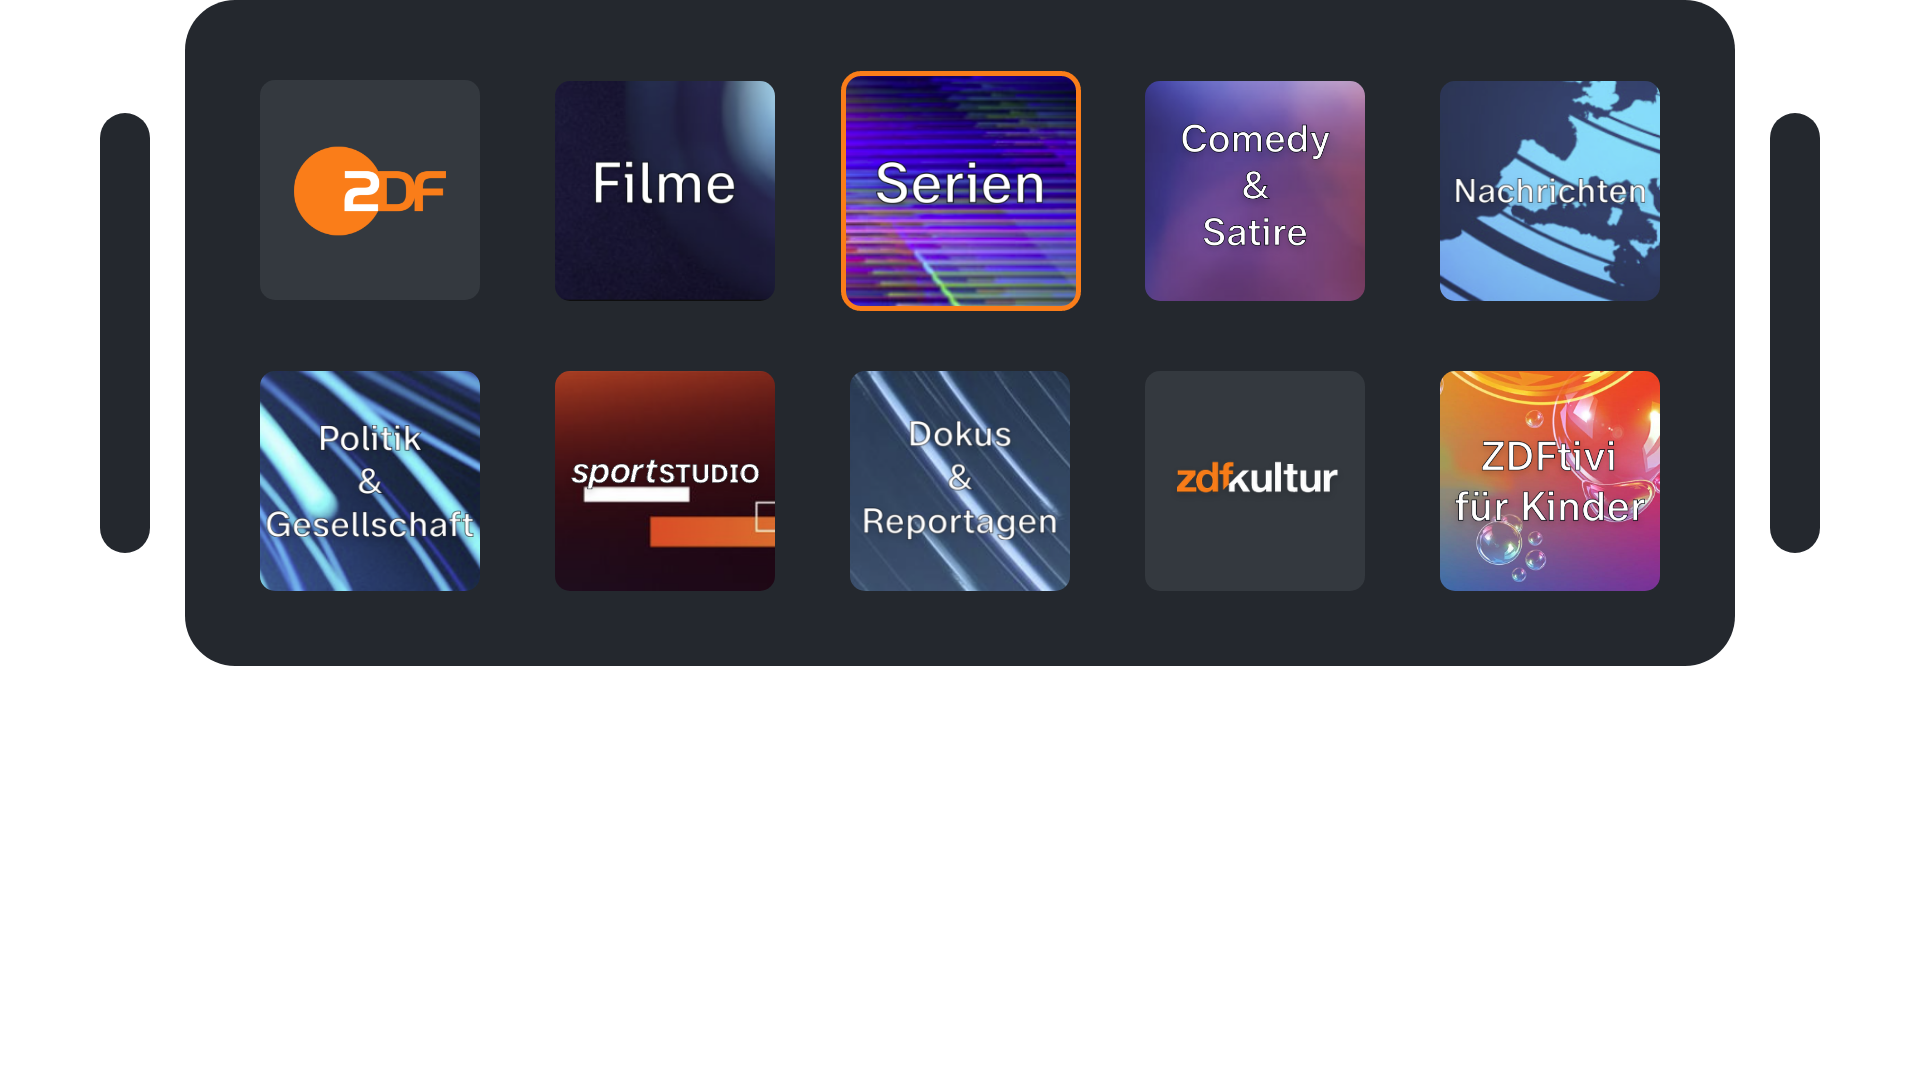
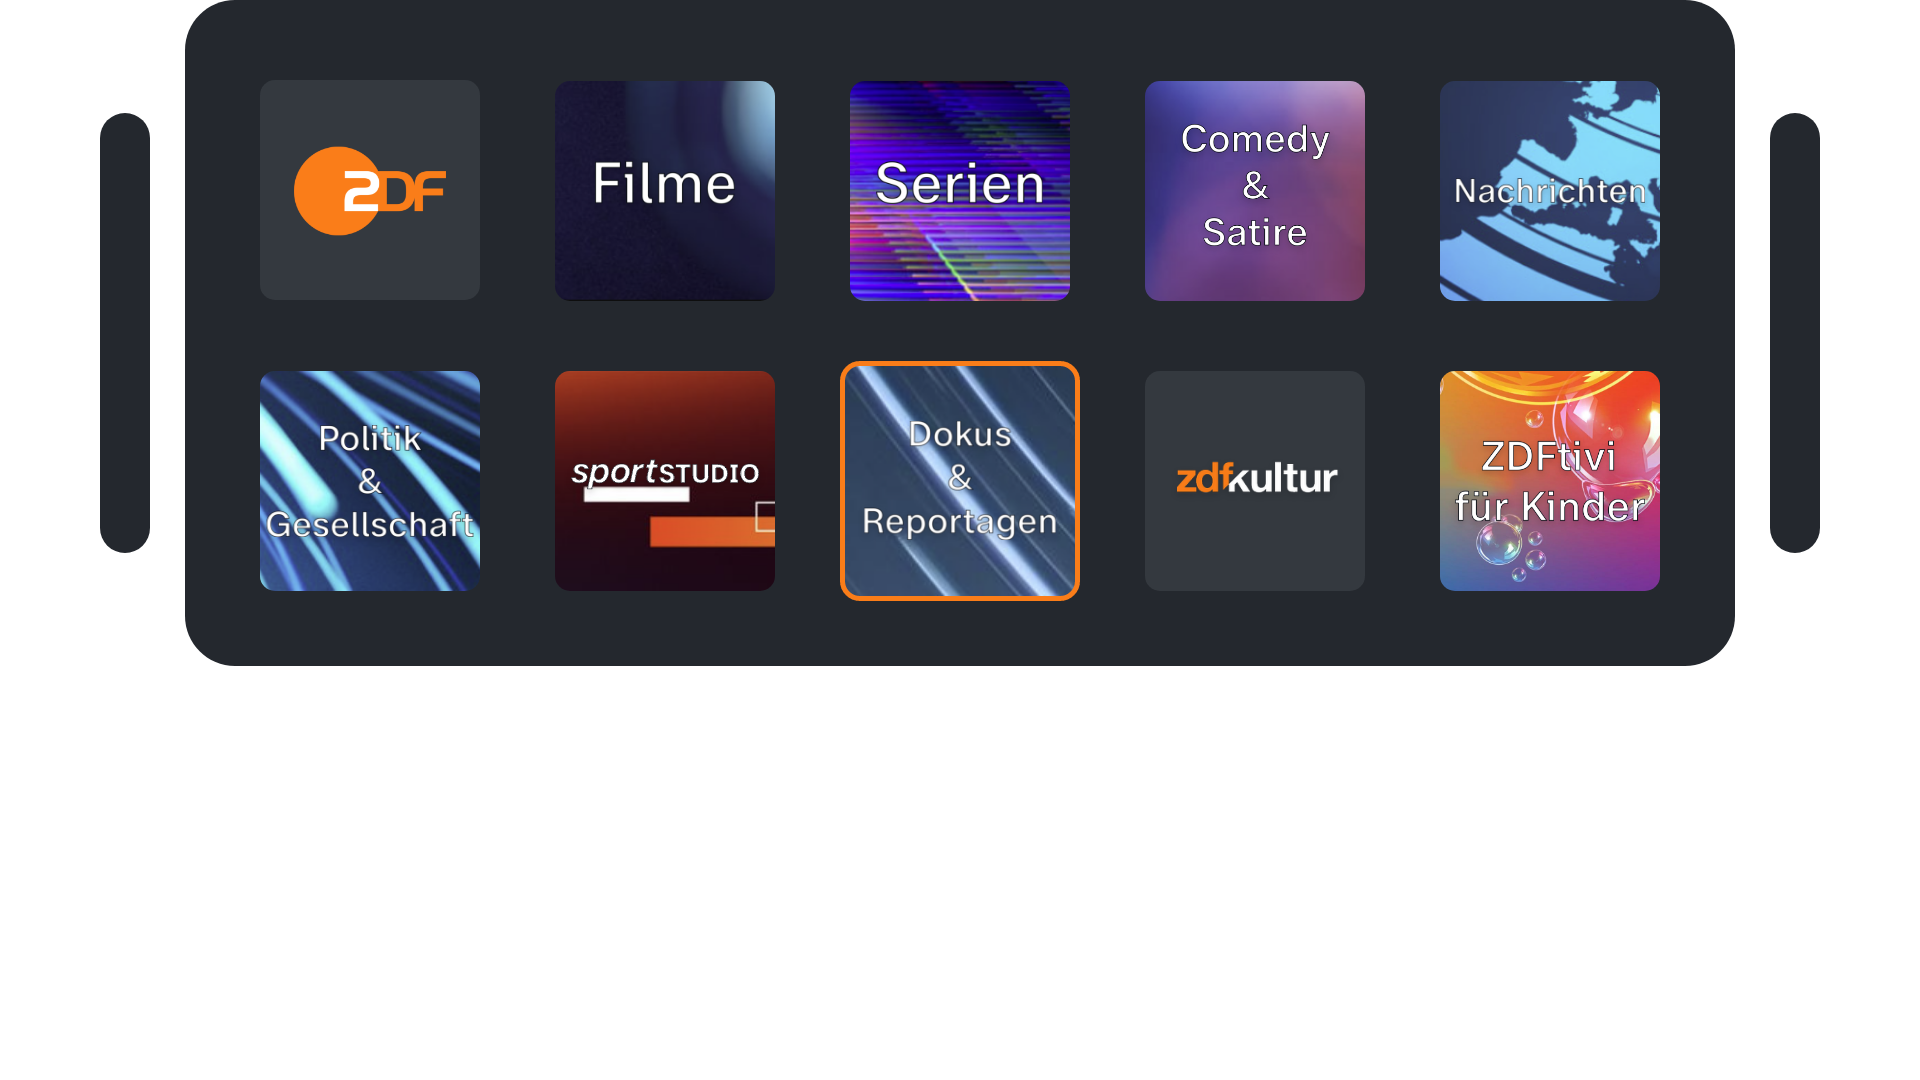
Refactor code structure and remove redundant sections for improved readability and maintainability

Changed region(s): [[0.4375, 0.0611, 0.5625, 0.3056], [0.4375, 0.3361, 0.5625, 0.5806]]

diff --git a/src/components/Results.jsx b/src/components/Results.jsx
@@ -4,30 +4,43 @@ import ReactCompareImage from 'react-compare-image';
 import { motion } from 'framer-motion';
 
 import background from '../assets/adobeXD/images/background/00.jpg';
+import backgroundMoon from '../assets/adobeXD/images/background/01.png';
 import startseiteLight from '../assets/adobeXD/images/light/001_Startseite_light.png';
 import startseiteDark from '../assets/adobeXD/images/dark/001_Startseite_dark.png';
 import rubrikenLight from '../assets/adobeXD/images/light/002_Rubriken_light.png';
 import rubrikenDark from '../assets/adobeXD/images/dark/002_Rubriken_dark.png';
-import serienLight from '../assets/adobeXD/images/light/006_Serien_light.png';
-import serienDark from '../assets/adobeXD/images/dark/006_Serien_dark.png';
-import serienDetailsLight from '../assets/adobeXD/images/light/014_Rookie_S1_light.png';
-import serienDetailsDark from '../assets/adobeXD/images/dark/014_Rookie_S1_dark.png';
-import playerAmbientLight from '../assets/adobeXD/images/light/020_S1_VB1_light.png';
-import playerAmbientDark from '../assets/adobeXD/images/dark/020_S1_VB1_dark.png';
-import playerLight from '../assets/adobeXD/images/light/022_S1_VB2_light.png';
-import playerDark from '../assets/adobeXD/images/dark/022_S1_VB2_dark.png';
+import dokuLight from '../assets/adobeXD/images/light/011_Dokus_light.png';
+import dokuDark from '../assets/adobeXD/images/dark/011_Dokus_dark.png';
+import dokuDetailsLight from '../assets/adobeXD/images/light/033_Mond_F2_1_light.png';
+import dokuDetailsDark from '../assets/adobeXD/images/dark/033_Mond_F2_1_dark.png';
+import playerLight from '../assets/adobeXD/images/light/037_F2_VB2_light.png';
+import playerDark from '../assets/adobeXD/images/dark/037_F2_VB2_dark.png';
+import playerAmbientLight from '../assets/adobeXD/images/light/036_F2_VB1_light.png';
+import playerAmbientDark from '../assets/adobeXD/images/dark/036_F2_VB1_dark.png';
 
 const Results = () => {
   return (
     <section className="w-full py-20 px-6 bg-[var(--background)] text-[var(--text)] font-quicksand selection:bg-[var(--accent)]">
-      <Element name="results">
-        <div className="max-w-4xl mx-auto">
-          <div>
-            <h1 className="text-4xl font-semibold mb-6 text-left">Ergebnisse</h1>
-            <p className="font-thin text-xl text-justify leading-[1.5]">
-              Lorem ipsum dolor sit amet, consetetur sadipscing elitr, sed diam nonumy eirmod tempor invidunt ut labore et dolore magna aliquyam erat, sed diam voluptua. At vero eos et accusam et justo duo dolores et ea rebum. Stet clita kasd gubergren, no sea takimata sanctus est Lorem ipsum dolor sit amet.            </p>
+      <Element name="results" >
+        <motion.h1 initial={{ opacity: 0, y: 50 }}
+          whileInView={{ opacity: 1, y: 0 }}
+          transition={{ duration: 0.6, ease: 'easeOut' }}
+          viewport={{ once: true }}
+          className="mt-8">
+          <div className="max-w-4xl mx-auto">
+            <div>
+              <h1 className="text-4xl font-semibold mb-6 text-left">Ergebnisse</h1>
+              <p className="font-thin text-xl text-justify leading-[1.5]">
+                Die kontinuierliche Diskussion und das Feedback führten zu einer finalen Lösung, die sowohl funktionalen als auch den ästhetischen
+                Anforderungen gerecht wird. Die verschiedenen Prototypen, die während des Prozesses entwickelt wurden, wurden detailliert getestet,
+                um die Benutzererfahrung zu optimieren und die Interaktivität in der Mixed Reality Mediathek zu gewährleisten.
+              </p>
+              <p className="font-thin text-xl text-justify leading-[1.5] mt-4">
+                Im Folgenden werden einige Beispiele der finalen Designentscheidungen gezeigt. Die gesamte Masterarbeit ist am Ende der Seite verlinkt.
+              </p>
+            </div>
           </div>
-        </div>
+        </motion.h1>
 
         {/* 1. Vergleichsbild */}
         <motion.h2
@@ -67,7 +80,7 @@ const Results = () => {
           whileInView={{ opacity: 1, x: 0 }}
           transition={{ duration: 1, ease: "easeOut" }}
           viewport={{ once: true }}
-          className="relative max-w-4xl w-full mx-auto text-2xl font-medium text-left mb-4 mt-16"
+          className="relative max-w-4xl w-full mx-auto text-2xl font-medium text-left mb-4 mt-32"
         >
           Rubriken
         </motion.h2>
@@ -101,9 +114,9 @@ const Results = () => {
           whileInView={{ opacity: 1, x: 0 }}
           transition={{ duration: 1, ease: "easeOut" }}
           viewport={{ once: true }}
-          className="relative max-w-4xl w-full mx-auto text-2xl font-medium text-left mb-4 mt-16"
+          className="relative max-w-4xl w-full mx-auto text-2xl font-medium text-left mb-4 mt-32"
         >
-          Übersichtsseite Serien
+          Übersichtsseite Dokus & Rerportagen
         </motion.h2>
         <motion.div
           initial={{ opacity: 0, x: -1000 }}
@@ -120,8 +133,8 @@ const Results = () => {
             />
             <div className="relative z-20">
               <ReactCompareImage
-                leftImage={serienLight}
-                rightImage={serienDark}
+                leftImage={dokuLight}
+                rightImage={dokuDark}
                 sliderLineColor="var(--accent)"
                 alt="Vergleich zwischen Light und Dark Mode"
               />
@@ -135,9 +148,9 @@ const Results = () => {
           whileInView={{ opacity: 1, x: 0 }}
           transition={{ duration: 1, ease: "easeOut" }}
           viewport={{ once: true }}
-          className="relative max-w-4xl w-full mx-auto text-2xl font-medium text-left mb-4 mt-16"
+          className="relative max-w-4xl w-full mx-auto text-2xl font-medium text-left mb-4 mt-32"
         >
-          Serienübersicht
+          Folgenübersicht 'Der Mond'
         </motion.h2>
         <motion.div
           initial={{ opacity: 0, x: 1000 }}
@@ -154,8 +167,8 @@ const Results = () => {
             />
             <div className="relative z-20">
               <ReactCompareImage
-                leftImage={serienDetailsLight}
-                rightImage={serienDetailsDark}
+                leftImage={dokuDetailsLight}
+                rightImage={dokuDetailsDark}
                 sliderLineColor="var(--accent)"
                 alt="Vergleich zwischen Light und Dark Mode"
               />
@@ -169,9 +182,9 @@ const Results = () => {
           whileInView={{ opacity: 1, x: 0 }}
           transition={{ duration: 1, ease: "easeOut" }}
           viewport={{ once: true }}
-          className="relative max-w-4xl w-full mx-auto text-2xl font-medium text-left mb-4 mt-16"
+          className="relative max-w-4xl w-full mx-auto text-2xl font-medium text-left mb-4 mt-32"
         >
-          Videoübersicht Ambiente
+          Videowiedergabe - Ambienteauswahl
         </motion.h2>
         <motion.div
           initial={{ opacity: 0, x: -1000 }}
@@ -184,7 +197,7 @@ const Results = () => {
             <img
               src={background}
               alt="Hintergrund"
-              className="absolute top-0 left-0 w-full h-full object-cover z-0 rounded-lg"
+              className="absolute top-0 left-0 w-full h-full object-cover z-0 rounded-lg brightness-20"
             />
             <div className="relative z-20">
               <ReactCompareImage
@@ -203,9 +216,9 @@ const Results = () => {
           whileInView={{ opacity: 1, x: 0 }}
           transition={{ duration: 1, ease: "easeOut" }}
           viewport={{ once: true }}
-          className="relative max-w-4xl w-full mx-auto text-2xl font-medium text-left mb-4 mt-16"
+          className="relative max-w-4xl w-full mx-auto text-2xl font-medium text-left mb-4 mt-32"
         >
-          Videoplayer - 
+          Videowiedergabe inkl. 3D-Modell
         </motion.h2>
         <motion.div
           initial={{ opacity: 0, x: 1000 }}
@@ -218,7 +231,7 @@ const Results = () => {
             <img
               src={background}
               alt="Hintergrund"
-              className="absolute top-0 left-0 w-full h-full object-cover z-0 rounded-lg"
+              className="absolute top-0 left-0 w-full h-full object-cover z-0 rounded-lg brightness-20"
             />
             <div className="relative z-20">
               <ReactCompareImage
@@ -226,6 +239,11 @@ const Results = () => {
                 rightImage={playerDark}
                 sliderLineColor="var(--accent)"
                 alt="Vergleich zwischen Light und Dark Mode"
+              />
+              <img
+                src={backgroundMoon}
+                alt="Hintergrund Mond"
+                className="absolute top-50 left-0 -translate-x-[20%] h-100 w-100 z-10"
               />
             </div>
           </div>

diff --git a/src/components/Navbar.jsx b/src/components/Navbar.jsx
@@ -49,9 +49,10 @@ const Navbar = ({ darkMode, setDarkMode }) => {
                     <Link to="thesis" smooth={true} duration={500} className="hover:text-[var(--accent)] font-quicksand font-medium cursor-pointer">
                         Download
                     </Link>
-                    <Link to="about" smooth={true} duration={500} className="hover:text-[var(--accent)] font-quicksand font-medium cursor-pointer">
-                        Über mich
-                    </Link>
+                    <a href="https://juliangruber.netlify.app" target="_blank" rel="noopener noreferrer" className="hover:text-[var(--accent)] font-quicksand font-medium cursor-pointer">
+                        Portfolio
+                    </a>
+
                     <button
                         onClick={() => setDarkMode(!darkMode)}
                         className="hover:bg-[var(--accent)] p-2 rounded-full cursor-pointer"
@@ -87,9 +88,10 @@ const Navbar = ({ darkMode, setDarkMode }) => {
                     <Link to="thesis" smooth={true} duration={500} className="hover:text-[var(--accent)] font-quicksand font-medium cursor-pointer" onClick={() => setMenuOpen(false)}>
                         Download
                     </Link>
-                    <Link to="about" smooth={true} duration={500} className="hover:text-[var(--accent)] font-quicksand font-medium cursor-pointer" onClick={() => setMenuOpen(false)}>
-                        Über mich
-                    </Link>
+                    <a href="https://juliangruber.netlify.app" target="_blank" rel="noopener noreferrer" className="hover:text-[var(--accent)] font-quicksand font-medium cursor-pointer">
+                        Portfolio
+                    </a>
+
                     <button
                         onClick={() => {
                             setDarkMode(!darkMode);

diff --git a/src/components/Hero.jsx b/src/components/Hero.jsx
@@ -18,8 +18,8 @@ const Hero = ({ darkMode }) => {
             Konzeption & prototypische Entwicklung einer Mixed Reality Version der
             ZDFmediathek im Ansatz von Spatial User Interfaces
           </h1>
-          <p className="font-thin text-xl mt-10">September 2024</p>
-          <p className="font-thin text-l">Julian Gruber</p>
+          <p className="font-thin text-2xl mt-10">September 2024</p>
+          <p className="font-thin text-xl">Julian Gruber</p>
         </div>
       </div>
     </section>

diff --git a/src/components/Thesis.jsx b/src/components/Thesis.jsx
@@ -2,7 +2,6 @@ import React from 'react';
 import { Element } from 'react-scroll';
 import { DiGoogleDrive } from "react-icons/di";
 
-
 const Thesis = () => {
     return (
         <section className="w-full py-2 px-6 bg-[var(--background)] text-[var(--text)] font-quicksand selection:bg-[var(--accent)]">
